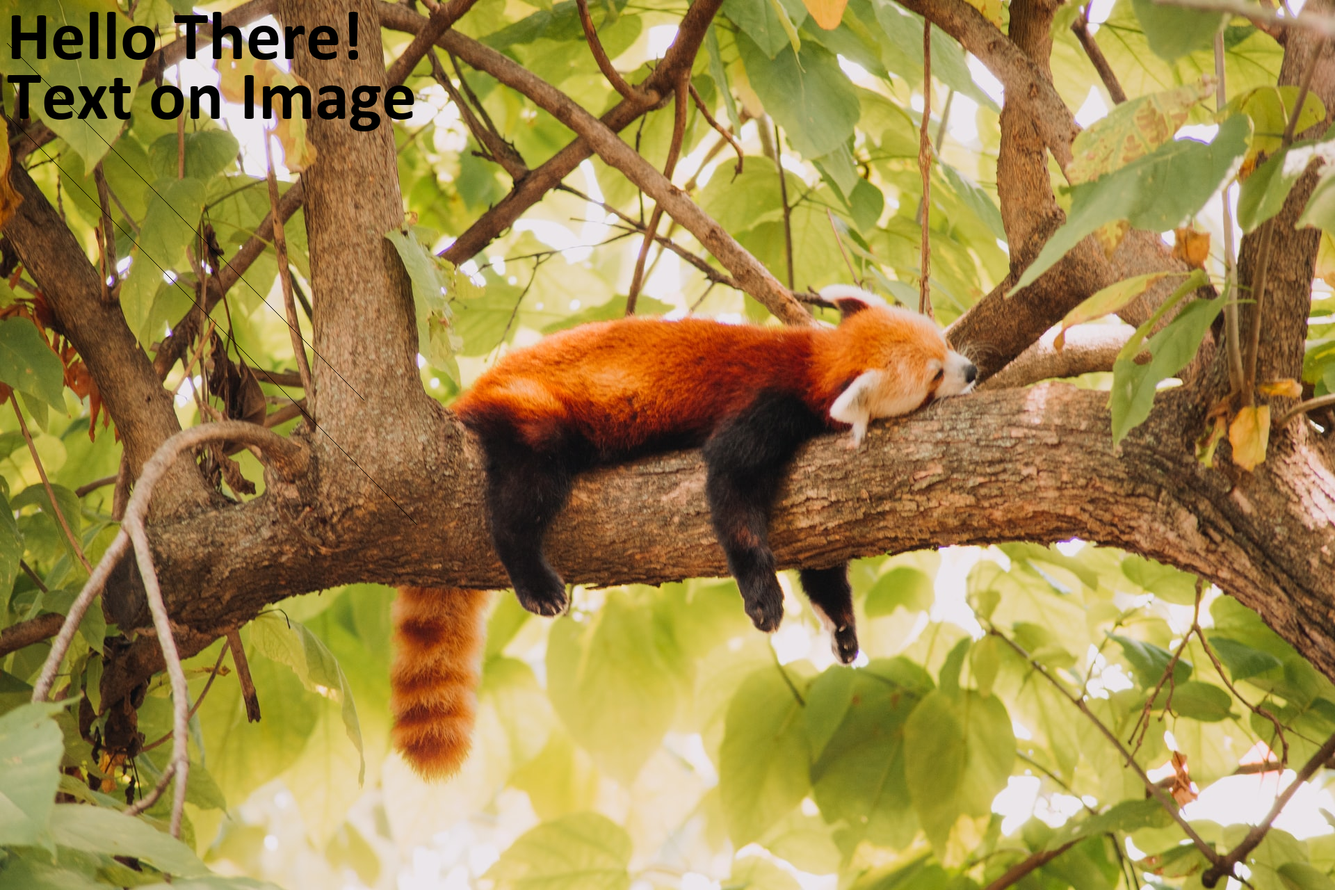
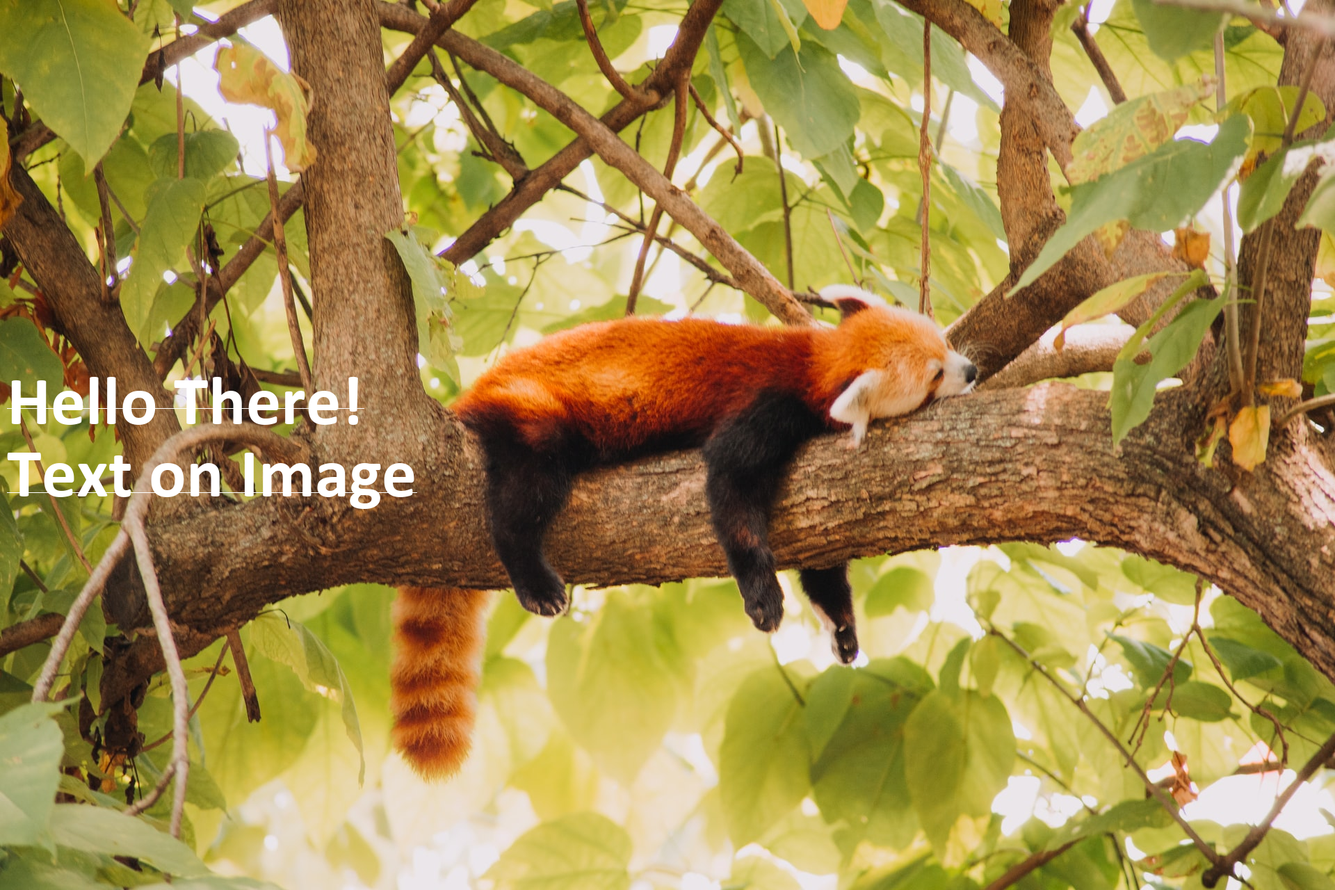
Comments added

Changed region(s): [[0.0, 0.4062, 0.3125, 0.5938], [0.0, 0.0, 0.3125, 0.1562]]

diff --git a/strikethrough.py b/strikethrough.py
@@ -1,7 +1,70 @@
+from typing import Tuple, List
 from PIL import Image, ImageDraw, ImageFont, ImageFilter
 
+def get_y_and_heights(
+    text_wrapped: List[str],
+    dimensions: Tuple[int, int],
+    margin: int,
+    font: ImageFont.FreeTypeFont,
+) -> Tuple[int, List[int]]:
+    """
+    Calculate the vertical coordinate to draw the first line of text and the height
+    of each line.
+
+    Args:
+        text_wrapped (List[str]): A list of wrapped text lines.
+        dimensions (Tuple[int, int]): Dimensions of the image (width, height).
+        margin (int): Margin between lines.
+        font (ImageFont.FreeTypeFont): Font used for drawing text.
+
+    Returns:
+        Tuple[int, List[int]]: The Y coordinate for the first line of text and
+        a list of line heights.
+    """
+    # Get the descent value of the font to consider the space below the baseline
+    _, descent = font.getmetrics()
+
+    # Initialize an empty list to store the height of each line
+    line_heights = []
+
+    for text_line in text_wrapped:
+        # Get the mask for the current line of text
+        text_mask = font.getmask(text_line)
+
+        # If the mask exists, calculate the height including descent and margin
+        if text_mask:
+            line_heights.append(text_mask.getbbox()[3] + descent + margin)
+        else:
+            # If the line is empty, consider only the descent and margin
+            line_heights.append(descent + margin)
+
+    # Adjust the height of the last line by subtracting the margin
+    line_heights[-1] -= margin
+
+    # Calculate the total height of the text
+    height_text = sum(line_heights)
+
+    # Calculate the starting vertical coordinate to center the text
+    y = (dimensions[1] - height_text) // 2
+
+    return y, line_heights
+
 def draw_strikethrough_text(draw, pos, text, font, **options):
-    _, _, width, text_height = draw.textbbox((0,0), text, font=font) 
+    """
+    Draw text with a strikethrough effect.
+
+    Args:
+        draw (ImageDraw): ImageDraw object.
+        pos (Tuple[int, int]): Position to draw the text (x, y).
+        text (str): Text to be drawn.
+        font (ImageFont.FreeTypeFont): Font used for drawing text.
+        **options: Additional drawing options.
+
+    Returns:
+        None
+    """
+    # Get the dimensions of the bounding box for the text
+    _, _, width, text_height = draw.textbbox((0,0), text, font=font)
 
     # Calculate the baseline and height of the text
     ascent, descent = font.getmetrics()
@@ -11,31 +74,37 @@ def draw_strikethrough_text(draw, pos, text, font, **options):
     line_thickness = 2  # Adjust the thickness of the strikethrough line as needed
     ly = baseline + (line_thickness // 2)
 
+    # Draw the text
     draw.text(pos, text, font=font, **options)
+
+    # Draw the strikethrough line
     draw.line((pos[0], ly, pos[0] + width, ly), **options)
 
-
 img = Image.open("./picture.jpg")
+
 draw = ImageDraw.Draw(img)
+
 font = ImageFont.truetype("./Calibri/calibrib.ttf", 100)
 
 W, H = img.size
 
 message = "Hello There!\nText on Image"
 
+# Split the message into lines if it contains newline characters
 if '\n' in message:
     text_lines = message.split('\n')
 else:
     text_lines = [message]
 
-y = 10  # Set your starting y-coordinate
+# Vertical margin between lines
+v_margin = 8
 
-for line in text_lines:
-    # Draw each line of text with a strikethrough effect
-    draw_strikethrough_text(draw, pos=(10, y), text=line, font=font, fill="black")
-    _, _, _, line_height = draw.textbbox((10, y), line, font=font)
-    y += line_height 
+# Get the starting vertical coordinate and line heights
+y, line_heights = get_y_and_heights(text_lines, (W, H), v_margin, font)
 
+# Draw each line of text with a strikethrough effect
+for i, line in enumerate(text_lines):
+    draw_strikethrough_text(draw, pos=(10, y), text=line, font=font, fill="white")
+    y += line_heights[i]
 
-# Save the resulting image
 img.save("output_image.png")
